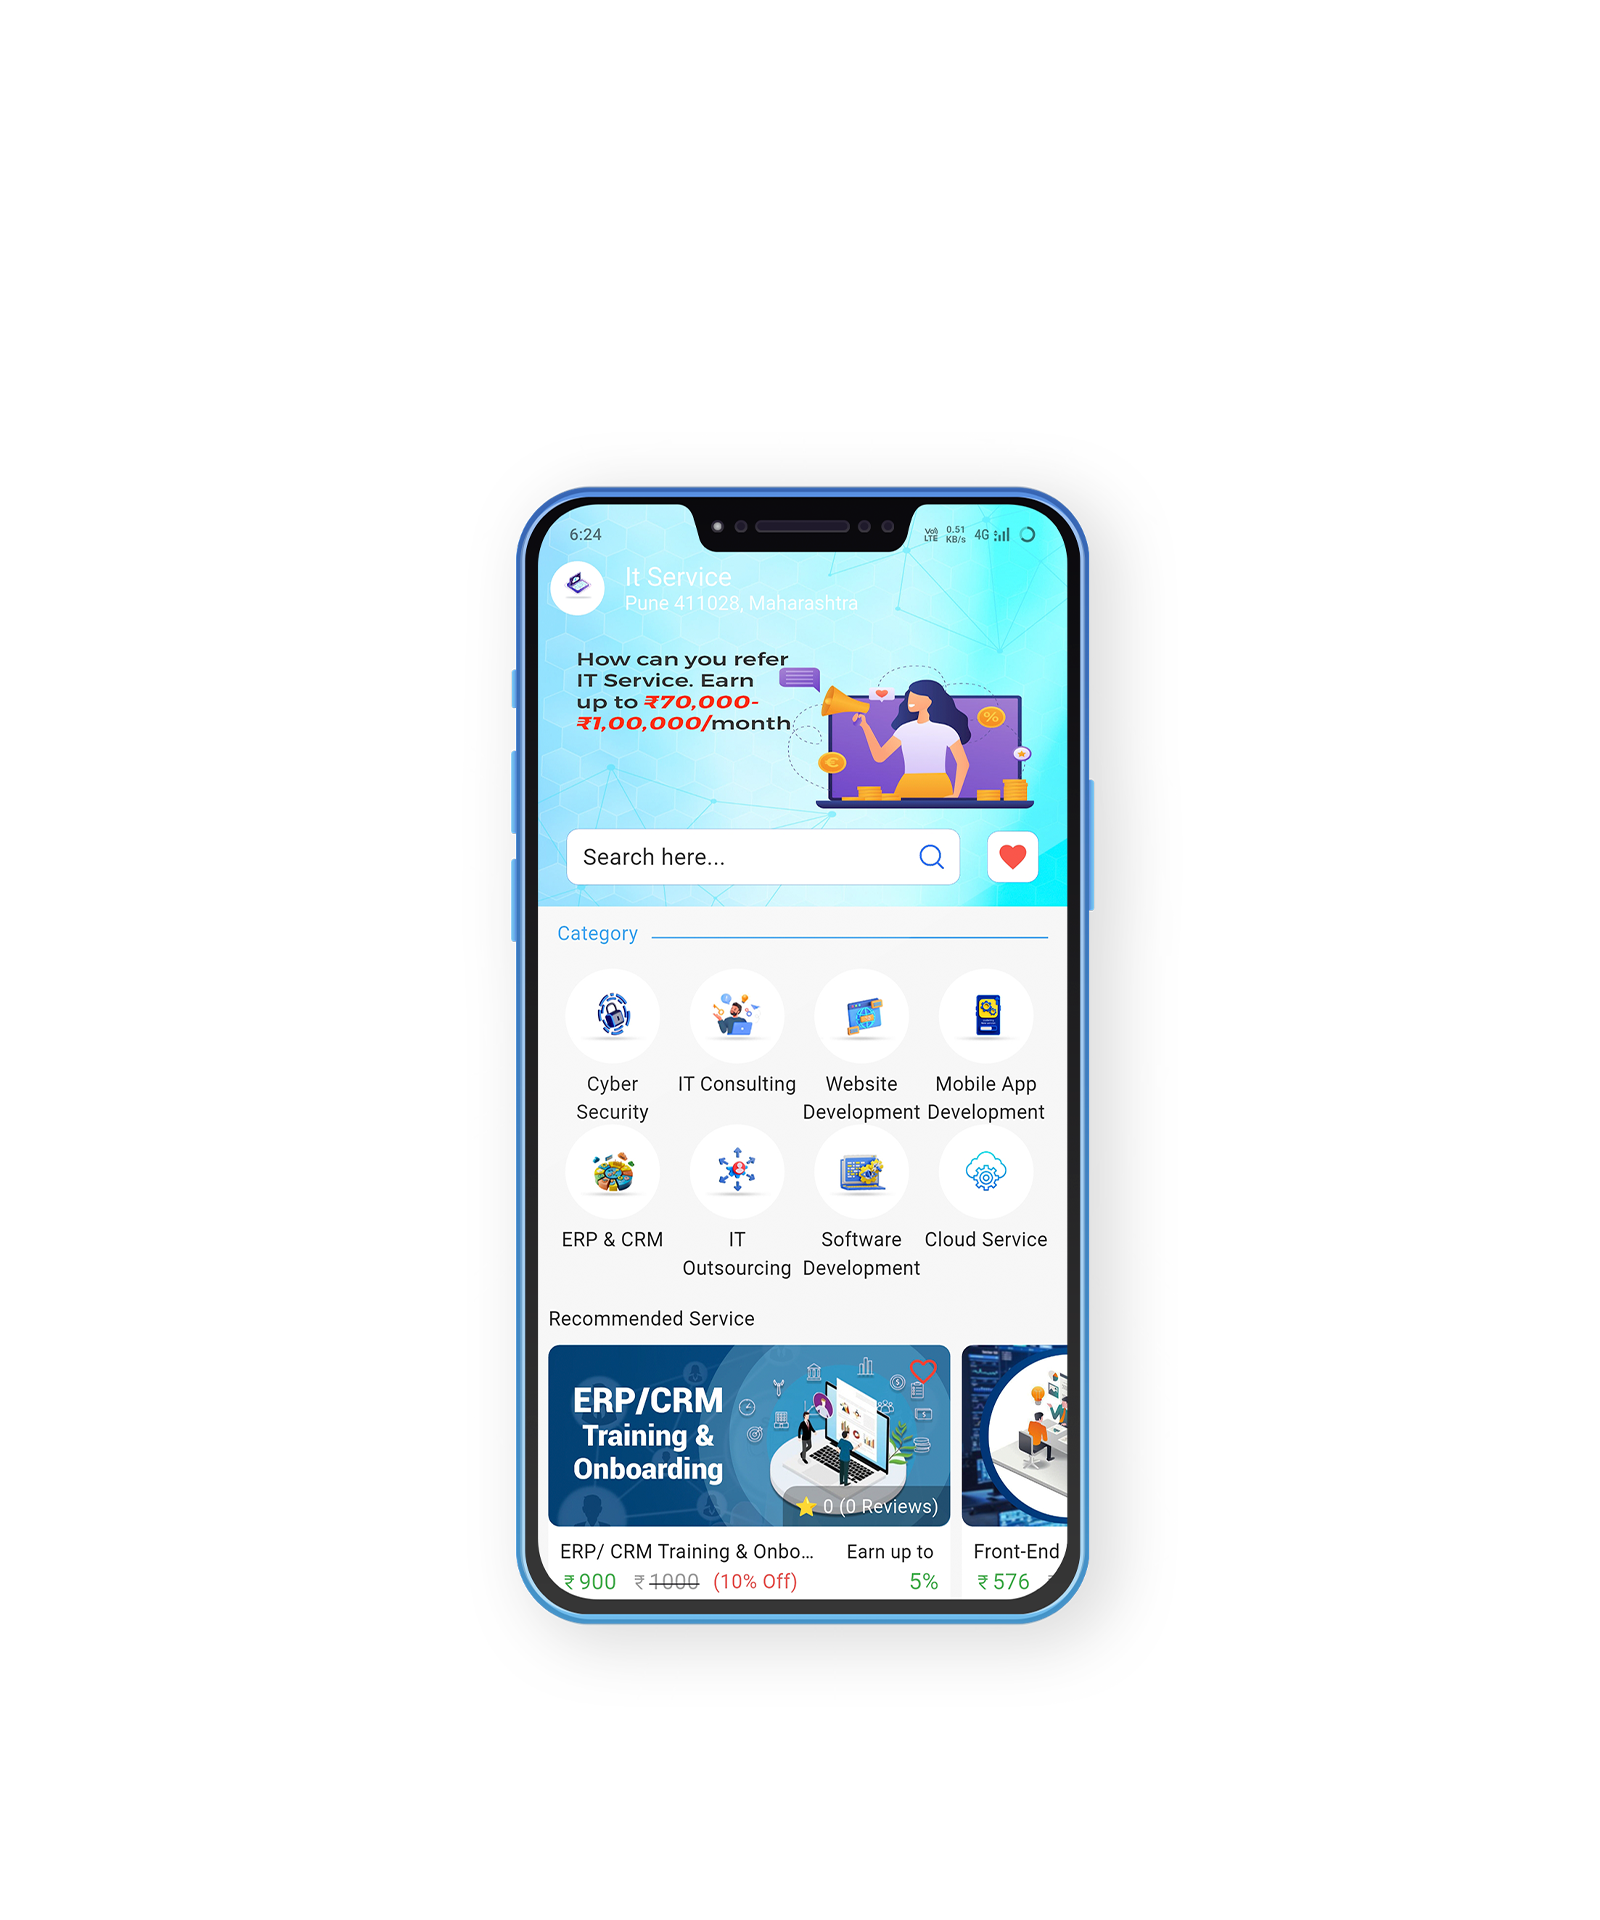
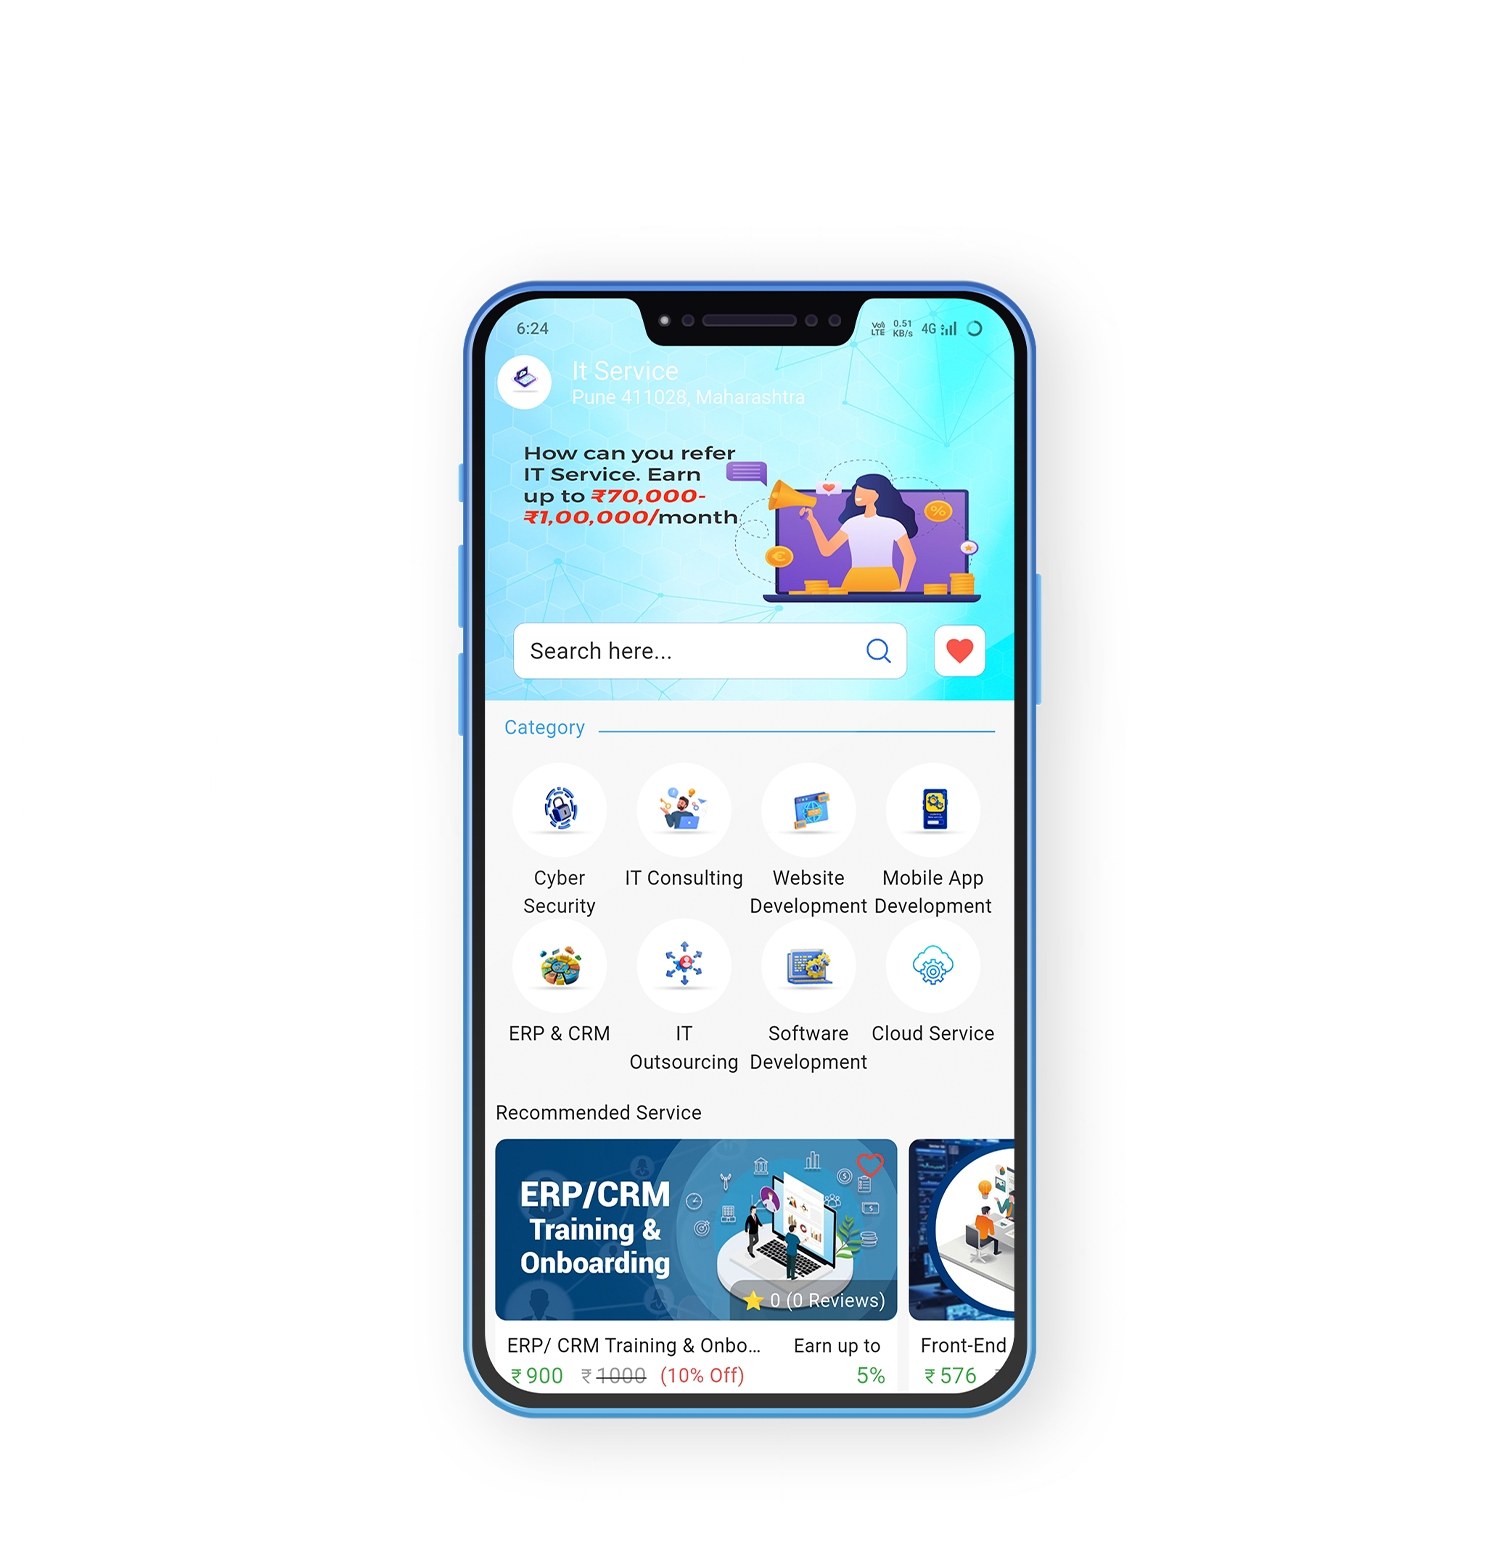
update

Changed region(s): [[0.3073, 0.1535, 0.7067, 0.9207]]

diff --git a/src/components/HeroSection.jsx b/src/components/HeroSection.jsx
@@ -201,7 +201,6 @@
 // }
 
 "use client";
-import Image from "next/image";
 import React, { useCallback, useState, useEffect } from "react";
 
 const HeroSection = () => {
@@ -214,11 +213,12 @@ const HeroSection = () => {
       highlight: "All In One Service Platform",
       description:
         "Fetch True makes it easy for you to find, connect, and get services—all in one platform. With diverse sector of services, you can choose your needs.",
-      image: "/Phone Mockup(1).png",
+      image: "/All_In_One_Services (2).png",
     },
     {
       title: "Find Trusted Services with Trusted Partners",
-      highlight: "All-in-One Service Platform Stop Searching – Start Fetching with Fetch True",
+      highlight:
+        "All-in-One Service Platform Stop Searching – Start Fetching with Fetch True",
       description:
         "The Fetch True gives you quick access to every service you need. It acts as the control center, where you can explore, and connect with services effortlessly.",
       image: "/Services Banner Images.png",
@@ -236,8 +236,6 @@ const HeroSection = () => {
     setCurrentSlide((prev) => (prev + 1) % slides.length);
   }, [slides.length]);
 
-  const goToSlide = (index) => setCurrentSlide(index);
-
   useEffect(() => {
     if (!isAutoPlaying) return;
     const interval = setInterval(nextSlide, 5000);
@@ -245,47 +243,45 @@ const HeroSection = () => {
   }, [isAutoPlaying, nextSlide]);
 
   return (
-    <section className="relative w-full flex flex-col items-center justify-center overflow-hidden">
+    <section className="relative w-full h-[600px] sm:h-[700px] md:h-[800px] lg:h-[1024px] flex items-center justify-center overflow-hidden text-center mt-20">
       {/* Background Image */}
-      <div className="w-full h-auto">
-        <img
-          src="/Backround image.png"
-          alt="Hero Background"
-          className="w-full h-[600px] md:h-[800px] lg:h-[1024px] object-cover"
-        />
-      </div>
+      <img
+        src="/Backround image.png"
+        alt="Hero Background"
+        className="absolute inset-0 w-full h-full object-cover z-0"
+      />
 
-      {/* Radial Gradient Overlay (semi-circle at top) */}
+      {/* Radial Gradient Overlay */}
       <div className="absolute inset-0 bg-[radial-gradient(circle_at_top,_#1E3C72_0%,_#00000000_70%)] z-5"></div>
 
-      <div className="absolute top-1/6 md:top-1/12 lg:top-1/12 flex flex-col items-center justify-center text-center px-4 sm:px-6 md:px-8 z-10 transition-all duration-700 ease-in-out">
-        <h1 className="text-white font-bold text-2xl sm:text-3xl md:text-4xl lg:text-6xl leading-tight drop-shadow-lg justify-center">
+      {/* Centered Content */}
+      <div className="relative z-10 flex flex-col items-center justify-center px-5 sm:px-8 text-white max-w-[900px]">
+        <h1 className="font-bold text-2xl sm:text-3xl md:text-4xl lg:text-6xl leading-tight drop-shadow-lg lg:mt-10">
           {slides[currentSlide].title}
         </h1>
 
-        <h3 className="text-white font-semibold text-sm sm:text-base md:text-xl lg:text-2xl mt-3 sm:mt-4 drop-shadow-md">
+        <h3 className="font-semibold text-sm sm:text-base md:text-xl lg:text-2xl mt-3 sm:mt-4 drop-shadow-md">
           {slides[currentSlide].highlight}
         </h3>
 
-        <p className="text-white text-xs sm:text-sm md:text-lg mt-3 sm:mt-4 max-w-[90%] sm:max-w-[600px] md:max-w-[750px] leading-relaxed drop-shadow-sm">
+        <p className="text-xs sm:text-sm md:text-lg mt-3 sm:mt-4 max-w-[85%] sm:max-w-[600px] md:max-w-[700px] leading-relaxed drop-shadow-sm mx-auto">
           {slides[currentSlide].description}
         </p>
 
-        <div>
+        <div className="mt-4 sm:mt-8 md:mt-5">
           <img
             src={slides[currentSlide].image}
             alt="Phone Mockup"
-            className="w-[250px] sm:w-[400px] md:w-[450px] lg:w-[550px] xl:w-[592px] h-auto object-contain rounded-xl drop-shadow-2xl transition-all duration-700 ease-in-out"
+            className="w-[250px] sm:w-[350px] md:w-[450px] lg:w-[550px] xl:w-[592px] h-auto object-contain rounded-xl drop-shadow-2xl transition-all duration-700 ease-in-out"
           />
         </div>
-
-       
       </div>
     </section>
   );
 };
 
 export default HeroSection;
+
 
 
 
